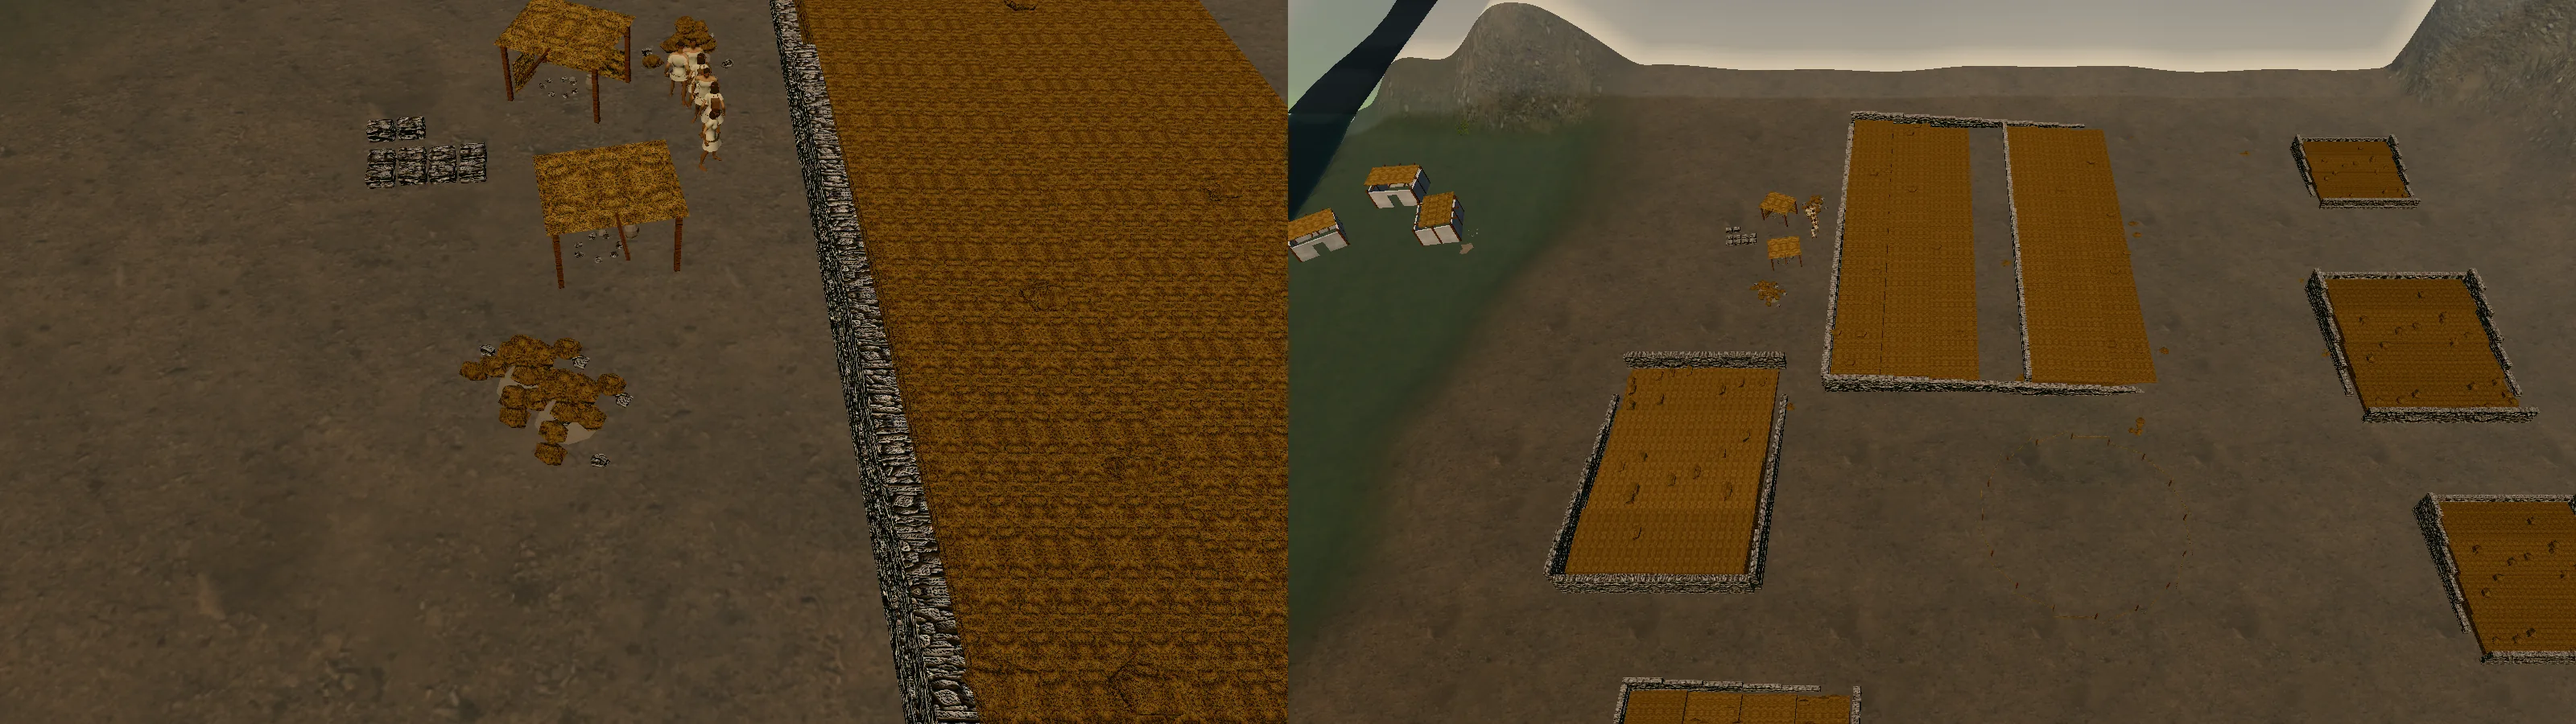
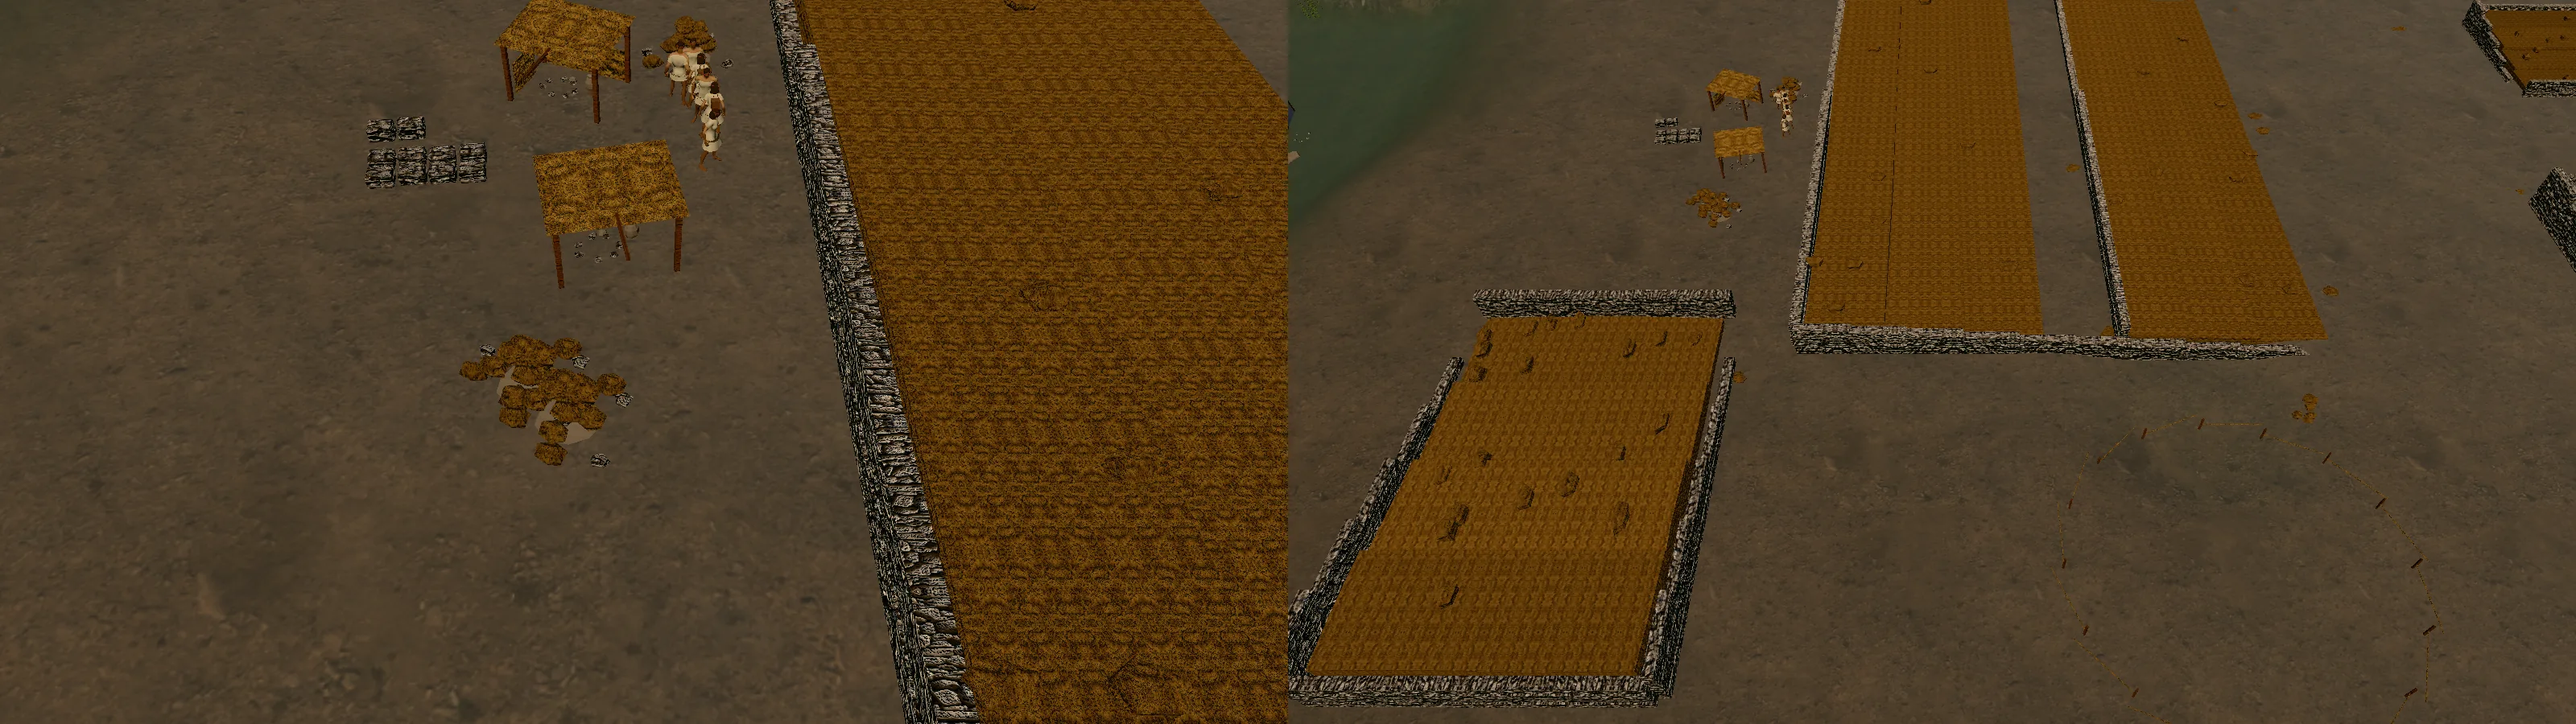
fix(caral): encuadre del Acto III, pivote de la estaca y notas de certeza

Changed region(s): [[0.5, 0.0, 1.0, 1.0], [0.9375, 0.6844, 1.0, 0.9333], [0.9688, 0.2489, 1.0, 0.3733]]

diff --git a/src/model/defs/caralCity.ts b/src/model/defs/caralCity.ts
@@ -212,10 +212,14 @@ function surveyCircle(center: { x: number; z: number }, radius: number, until: C
   });
 }
 
-/** Traces of the main sunken plaza (until `fill`) and the amphitheatre plaza (until `in_use`). */
+/** The main sunken plaza in front of the Mayor's stair and the larger one at the amphitheatre. */
+const MAIN_PLAZA = { x: mayor.x, z: mayor.z + mayor.d / 2 + 12.5, radius: PLAZA_DIAMETER / 2 };
+const AMPH_PLAZA = { x: amphitheatre.x, z: amphitheatre.z - 10, radius: 21 / 2 };
+
+/** Traces of the main plaza (until `fill`) and the amphitheatre plaza (until `in_use`). */
 export const CARAL_SURVEY_LAYOUT: readonly CaralArchPlacement[] = [
-  ...surveyCircle({ x: mayor.x, z: mayor.z + mayor.d / 2 + 12.5 }, PLAZA_DIAMETER / 2, 'fill'),
-  ...surveyCircle({ x: amphitheatre.x, z: amphitheatre.z - 10 }, (PLAZA_DIAMETER * 21) / 16 / 2, 'in_use'),
+  ...surveyCircle(MAIN_PLAZA, MAIN_PLAZA.radius, 'fill'),
+  ...surveyCircle(AMPH_PLAZA, AMPH_PLAZA.radius, 'in_use'),
 ];
 
 export const CARAL_CITY_LAYOUT: readonly CaralArchPlacement[] = [
@@ -223,8 +227,8 @@ export const CARAL_CITY_LAYOUT: readonly CaralArchPlacement[] = [
   // Sunken circular plaza in front of the Pyramid Mayor's stair (the stair foot is ~4 beyond the base).
   {
     asset: 'circular_plaza',
-    x: mayor.x,
-    z: mayor.z + mayor.d / 2 + 12.5,
+    x: MAIN_PLAZA.x,
+    z: MAIN_PLAZA.z,
     rotY: 0,
     scale: [1, 1, 1],
     lift: PLAZA_FLOOR_DEPTH,
@@ -247,8 +251,8 @@ export const CARAL_CITY_LAYOUT: readonly CaralArchPlacement[] = [
   {
     asset: 'circular_plaza',
     since: 'in_use',
-    x: amphitheatre.x,
-    z: amphitheatre.z - 10,
+    x: AMPH_PLAZA.x,
+    z: AMPH_PLAZA.z,
     rotY: 0,
     scale: [21 / PLAZA_DIAMETER, 1, 21 / PLAZA_DIAMETER],
     lift: PLAZA_FLOOR_DEPTH,

diff --git a/src/model/defs/sites.ts b/src/model/defs/sites.ts
@@ -250,8 +250,9 @@ export const CARAL_CIRCULAR_ALTAR = caralCityPoint({ x: 72.5, z: 144.55, w: 10.6
 export const CARAL_SITE_BLOCKER_PADDING = 0.5;
 
 /**
- * Phase from which each Caral monument stands (matches the `since` of its kit placement in caralCity.ts):
- * until then it neither blocks units nor answers clicks. The Pyramid Mayor and Áspero stand throughout.
+ * Phase from which each Caral monument answers clicks and shows its card. The physical blockers use
+ * `CARAL_HERITAGE_BLOCK_SINCE` instead: the five smaller complexes block from foundation (their started
+ * platform exists) but their cards wait for the finished model. The Mayor and Áspero stand throughout.
  */
 export const CARAL_HERITAGE_SINCE: Partial<Record<HeritageBuildingId, string>> = {
   caral_pyramid_central: 'finished',

diff --git a/tests/e2e/caral-city.spec.ts b/tests/e2e/caral-city.spec.ts
@@ -708,6 +708,10 @@ test('the authored site blocks every solid monument and leaves the plaza ring wa
 
 test('the started complexes block from foundation; their cards wait for finished', async ({ page }) => {
   await boot(page);
+  const assets = await page.evaluate(() =>
+    (window as unknown as { game: { caralCity: { assets(): string[] } } }).game.caralCity.assets(),
+  );
+  expect(assets).toEqual(expect.arrayContaining(['pyramid_small_phase1', 'survey_stake']));
   const state = await page.evaluate(() => {
     const g = (window as unknown as { game: any }).game;
     const p = g.pathfinder;

diff --git a/scripts/blender/build_caral_architecture_kit.py b/scripts/blender/build_caral_architecture_kit.py
@@ -915,6 +915,8 @@ def main():
                     'budget': {'LOD0': LOD0_BUDGET, 'LOD1': LOD1_BUDGET}, 'reviewed': False, 'lods': {}}
         if asset.startswith('house_'):
             manifest['wall_height'] = WALL_H[asset.split('_', 1)[1]]
+        if asset == 'survey_stake':
+            manifest['pivot'] = 'stake base at ground level; cord along +X'
         for lod in (0, 1):
             obj = build_object(asset, lod, mats)
             info = stats(obj)

diff --git a/PROVENANCE.md b/PROVENANCE.md
@@ -214,11 +214,12 @@ slot is absent (offline / without assets).
   `in_use`. The started platforms block from foundation, but their monument cards and the six-complex
   tour still wait for `finished` (`CARAL_HERITAGE_BLOCK_SINCE` vs `CARAL_HERITAGE_SINCE`). Phased
   platforms and shicra fill are documented; that the five were started alongside the Mayor, the cord
-  survey and the exact construction form are inferred.
+  survey and the exact construction form are inferred. The Anfiteatro temple and the Altar Redondo still
+  appear whole at `in_use` (their plaza is staked); starting them is left for a later pass.
 - **Evidence**: `node scripts/shots_evidence.mjs --scene=caral-camp --out=review/evidence/caral-camp`
-  captures the Act III camp close up, in a medium RTS view, the staked plaza and a wide context frame;
-  stitch `close.png` and `camp.png` for `docs/media/caral-camp.webp` and `camp.png` + `rts.png` for
-  `docs/media/caral-act3.webp`, at 3200 × 900 and quality 82.
+  captures the Act III camp close up, in a medium RTS view, the staked plaza, the issue frame (`act3`)
+  and a wide context frame; stitch `close.png` + `camp.png` for `docs/media/caral-camp.webp` and
+  `camp.png` + `act3.png` for `docs/media/caral-act3.webp`, at 3200 × 900 and quality 82.
 - **Confidence** (per piece in the manifests; evidence in `docs/historia/campanas/caral.md` and
   `docs/historia/civilizaciones/caral.md`): stepped superposed platforms, shicra fill, stone retaining
   walls, painted plaster, sunken circular plazas, quincha houses, cotton nets and gourd floats and fair

diff --git a/docs/historia/campanas/caral.md b/docs/historia/campanas/caral.md
@@ -151,6 +151,10 @@ Estas afirmaciones deben presentarse como **interpretaciones**, no como hechos c
 | Quincha de caña brava en el período antiguo, piedra en el tardío                    | Documentado                       |
 | Ferias temporales con tiendas en las plazas abiertas                                | Documentado                       |
 | Shicras, plataformas superpuestas y enterramiento ritual por fases                  | Documentado                       |
+| Arranque de los cinco complejos menores junto a la Pirámide Mayor                   | Inferido                          |
+| Forma del arranque (plataforma baja con relleno de shicras)                         | Inferido                          |
+| Replanteo de las plazas con estacas y cordel                                        | No documentado; reconstrucción    |
+| Campamento de obra y cuadrilla de acarreadores                                      | Supuesto plausible                |
 | Color exacto de cada edificio en cada período                                       | Inferido                          |
 | Techos y remates de los edificios                                                   | Supuesto plausible                |
 | Plazas circulares hundidas (la mayor en el Templo del Anfiteatro)                   | Documentado                       |
